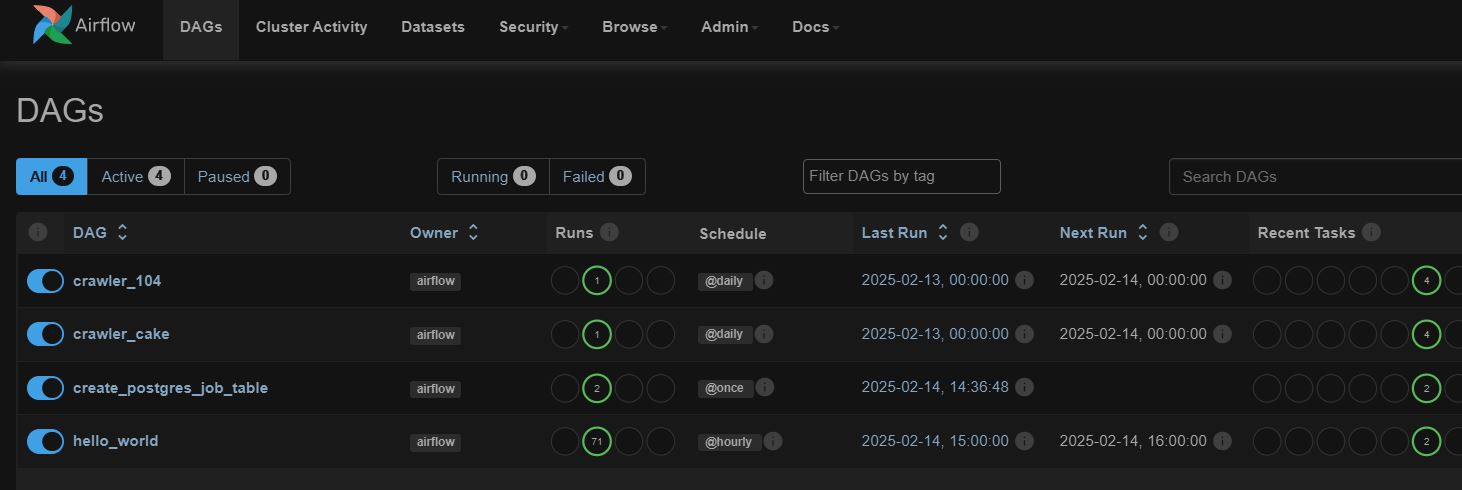
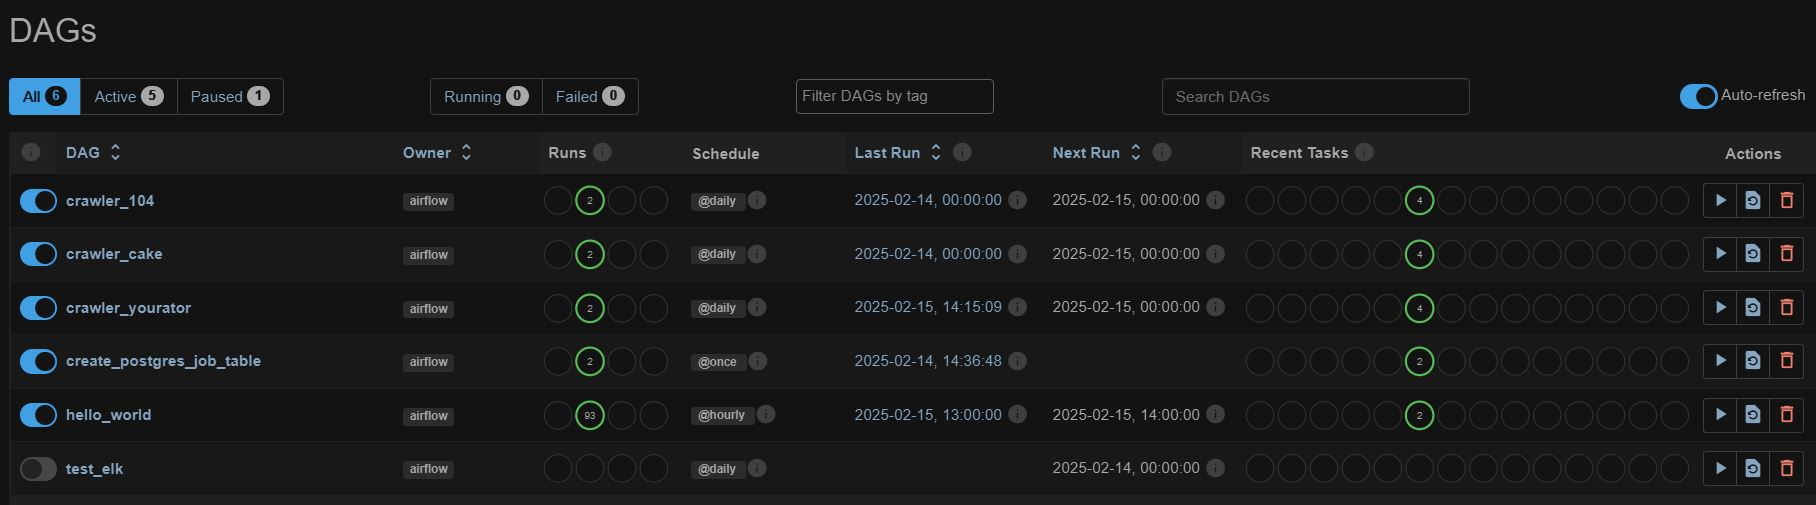
update Yourator logic

diff --git a/caed-airflow/dags/logic/crawler/crawler_yourator.py b/caed-airflow/dags/logic/crawler/crawler_yourator.py
@@ -15,33 +15,28 @@ def crawler(**kwargs):
     session = requests.Session()
 
     headers = {
-        'user-agent': 'Mozilla/5.0 (Windows NT 10.0; Win64; x64) AppleWebKit/537.36 (KHTML, like Gecko) Chrome/131.0.0.0 Safari/537.36',
-        'referer': '',
-        'accept': '*/*',
-        'accept-encoding': 'gzip, deflate, br, zstd',
-        'cookie': '',
+        'user-agent': 'Mozilla/5.0 (Windows NT 10.0; Win64; x64) AppleWebKit/537.36 (KHTML, like Gecko) Chrome/121.0.6167.184 Safari/537.36 Edg/121.0.2277.128',
+        'referer': 'https://www.yourator.co/jobs',
+        'accept': 'application/json',
+        'content-type': 'application/json',
     }
-    url = ''
-
+    url = 'https://www.yourator.co/api/v4/jobs?negotiable=false&page=1&position[]=full_time&task_based=false'
     res = session.get(url, headers=headers)
     loader = json.loads(res.text)
-    for i in loader['data']['list']:
-        # print(i)
-        # key = i['jobNo']
+    for i in loader['payload']['jobs']:
+        print(i)
+        key = i['id']
         # report_date = datetime.strptime(f'{i['appearDate'][:4]}-{i['appearDate'][4:6]}-{i['appearDate'][6:]}', '%Y-%m-%d')
         pre_data[key] = {
-            # 'jobNo': key,
-            # 'report_date': str(report_date)[:10],
-            'source_type': 'Yourator',
-            # 'pay': i['salaryDesc'],
-            # 'state': i['applyDesc'],
-            # 'company': i['custNameRaw'],
-            # 'title': i['jobName'],
-            # 'company_type': i['coIndustryDesc'],
-            # 'area': i['jobAddrNoDesc'],
-            # 'condition_1': i['optionEdu'],
-            # 'condition_2': '工作經歷' + i['periodDesc'],
-            # 'link': 'https://' + i['link']['job'],
+            'jobNo': key,
+            'report_date': None,
+            'source_type': 'yourator',
+            'pay': i['salary'],
+            'state': None,
+            'company': i['company']['brand'],
+            'title': i['name'],
+            'company_type': None,
+            'area': i['location'],
         }
 
     # TODO 需要轉成像[{}, {}] 的寫法

diff --git a/caed-airflow/dags/yourator_dag.py b/caed-airflow/dags/yourator_dag.py
@@ -29,7 +29,7 @@ None: 不進行調度，僅用於「外部觸發」DAG
 """
 
 with DAG(
-        'crawler_cake',
+        'crawler_yourator',
         default_args=default_args,
         schedule='@daily',
         start_date=datetime(2025, 1, 1),

diff --git a/README.md b/README.md
@@ -24,9 +24,9 @@
 | 資料表建立 | `dags/create_job_table.py` | DL | 2025-02-10 |
 | 順利以 PostgreSQL 儲存資料 | `construct_sql_syntax/save_db.py` | PC / DL | 2025-02-15 |
 | ELK Stack | `note/elk_installation.md` | DL | 2025-02-15 |
+| [Yourator](https://www.yourator.co/) 爬蟲實作 | 簡易版 | PC | 2025-02-15 |
 | UI 介面瀏覽 SQL 數據 | `note/ui_operations.md` | PC | - |
-| [Yourator](https://www.yourator.co/) 爬蟲實作 | 簡易版 |  | - |
-| 專案初版完成 | 至少 `3` 個人力網站 |  | - |
+| 專案初版完成 | 至少 `3` 個人力網站 | - | 2025-02-15 |
 | Public Clouds | *如何上傳 | PC / DL | - |
 
 <br>
